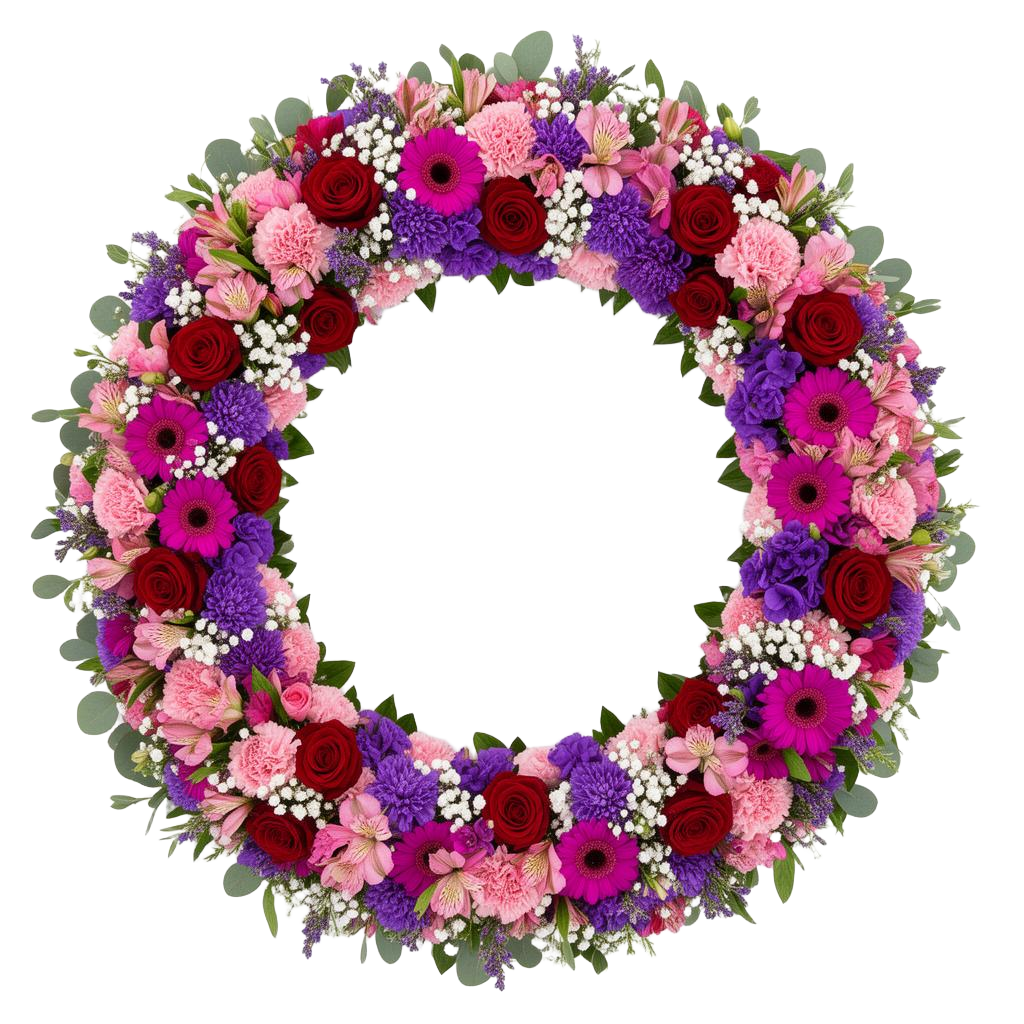
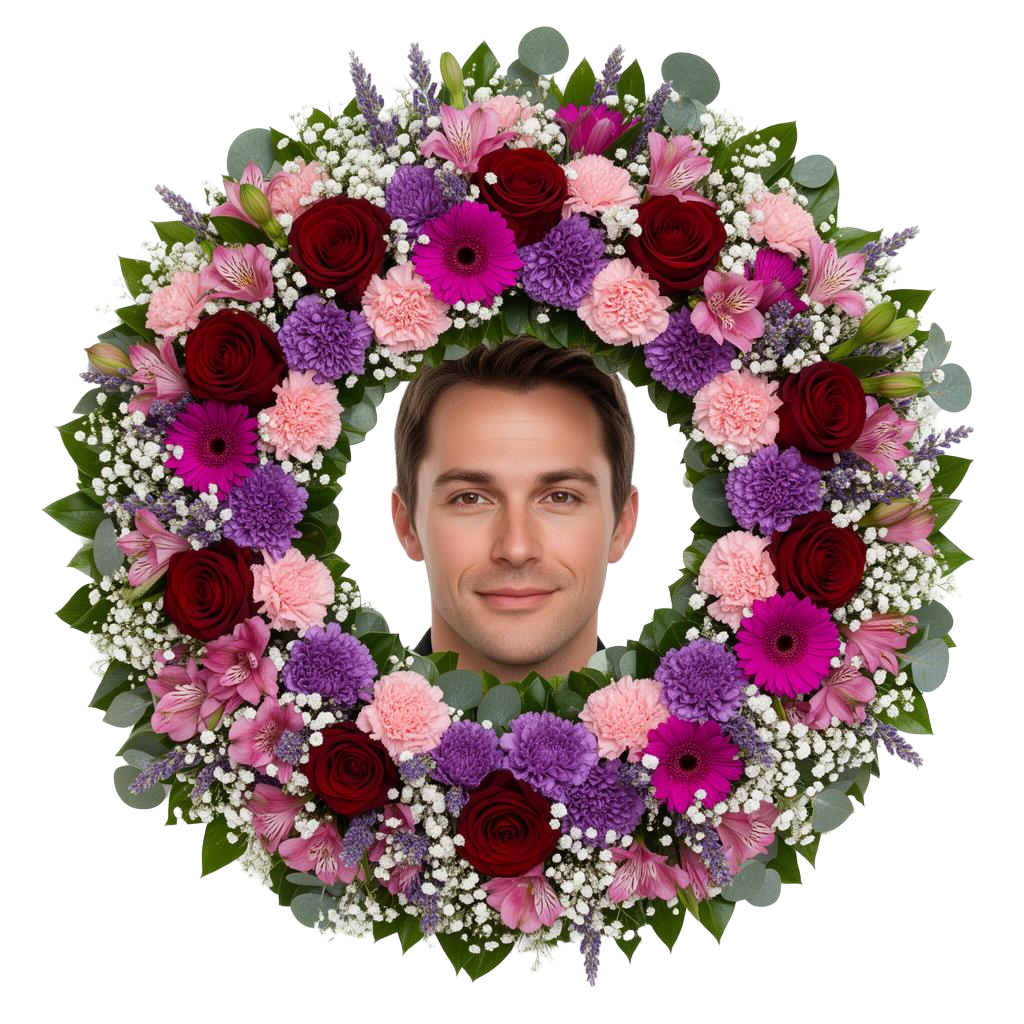
Changes

diff --git a/src/components/memorial/MemorialPhoto.tsx b/src/components/memorial/MemorialPhoto.tsx
@@ -16,7 +16,7 @@ const CROWN_INSET: Record<number, string> = {
   1: "-15%",  // ~50% inner opening — moderate expansion
   2: "-14%",  // ~50% inner opening — slightly less
   3: "-16%",  // ~48% inner opening — bit more expansion
-  4: "-7%",   // extra thin premium crown — maximize face and tribute visibility
+  4: "-11%",  // thinner premium crown while preserving overall footprint
 };
 
 interface Offering {
